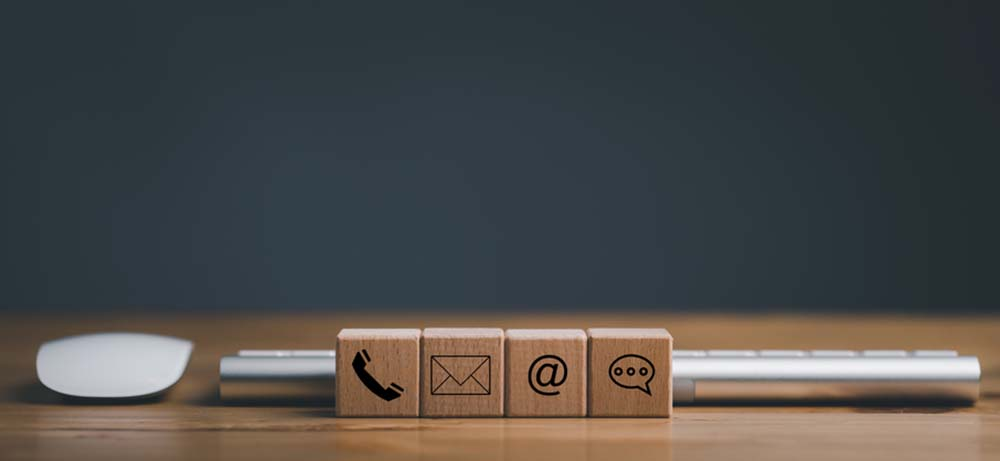
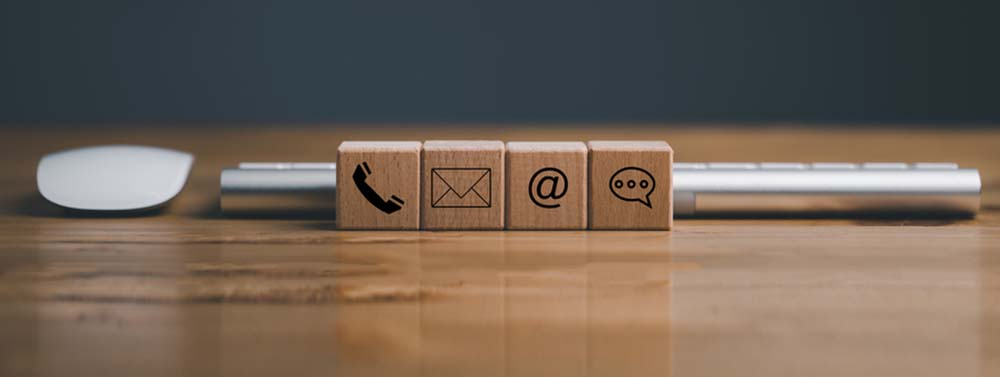
Adjusting the background size and position of ViewTopTitleSection

diff --git a/client/src/components/ViewTopTitleSection.tsx b/client/src/components/ViewTopTitleSection.tsx
@@ -51,20 +51,15 @@ function ViewTopTitleSection({
             sx={{
                 backgroundImage: {
                     xs: `url(${imageSrcSmallScreen})`,
-                    md: `url(${imageSrcLargeScreen})`,
+                    lg: `url(${imageSrcLargeScreen})`,
                 },
                 backgroundPosition: {
                     xs:  "100% 9%",
                     sm: '100% 11%',
-                    md: '100% 10%',
+                    md: '100% -10%',
                     lg: '100% 13%'
                 },
-                backgroundSize: {
-                    xs: '100% 20%',
-                    sm: '100% 30%',
-                    md: '100% 40%',
-                    lg: '100% 40%'
-                },
+                backgroundSize: 'contain',
                 minHeight: {
                     xs: '15vh',
                     sm: '30vh',
